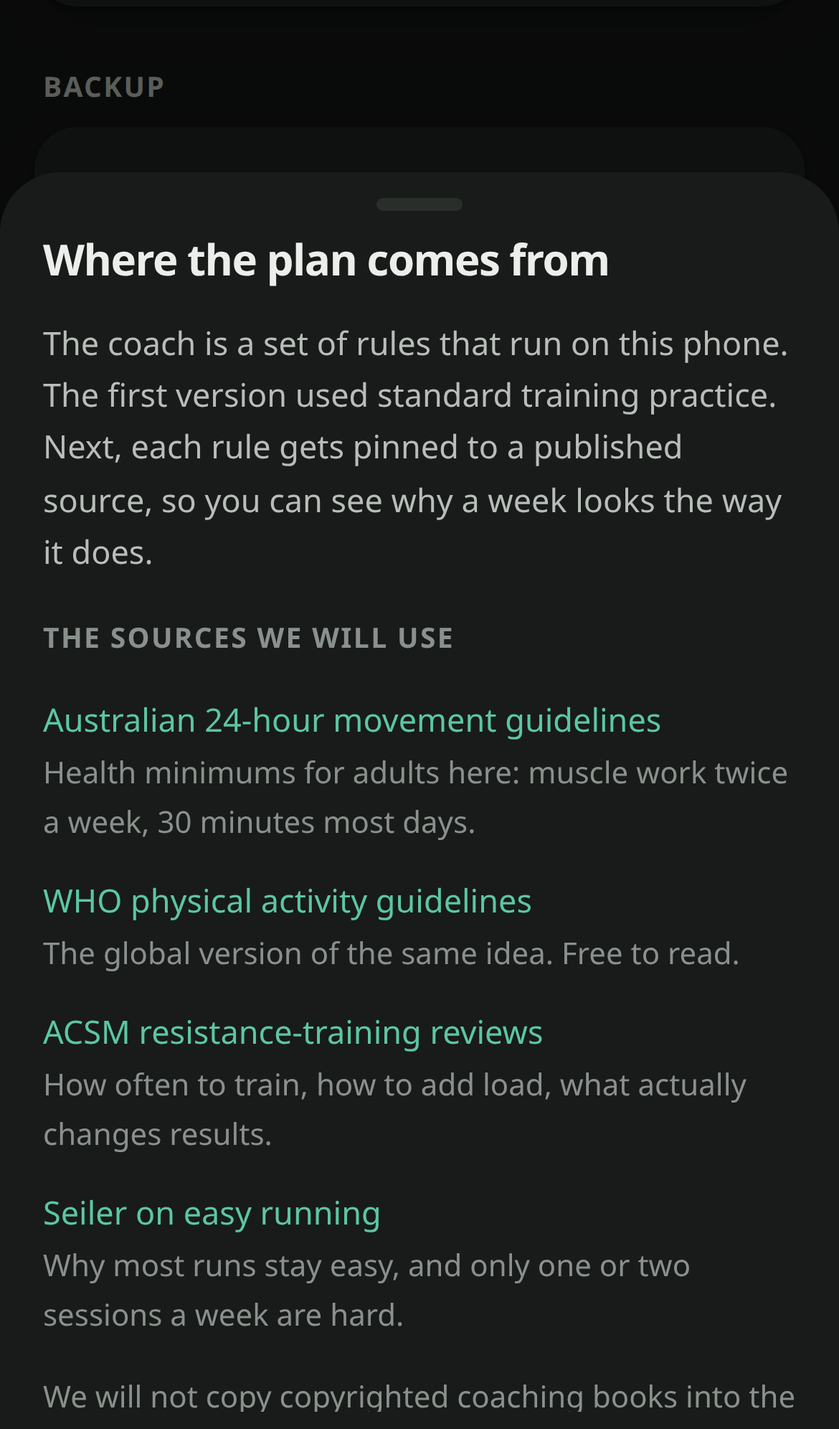
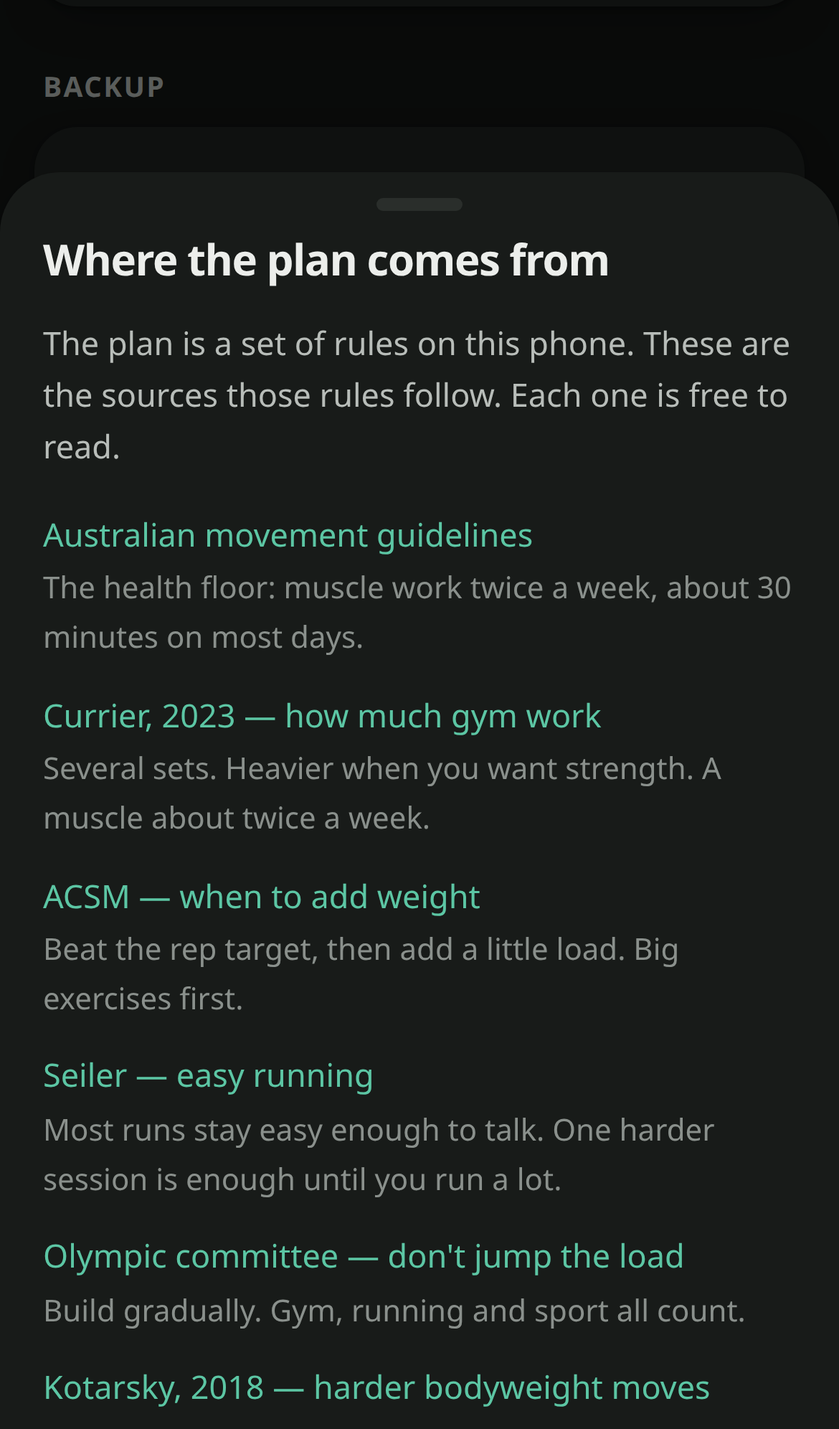
Choose the six open sources the coach should follow.
After a wider read of guidelines, consensus statements and reviews, the
rulebook narrows to: Australian movement guidelines, Currier 2023, the ACSM
progression stand, Seiler on easy running, the IOC load consensus, and
Kotarsky 2018 for harder bodyweight variations. Settings lists them. The
engine rules are not rewritten yet.

diff --git a/src/screens/Settings.tsx b/src/screens/Settings.tsx
@@ -370,38 +370,47 @@ export function Settings() {
       <Sheet open={sourcesOpen} onClose={() => setSourcesOpen(false)} title="Where the plan comes from">
         <div className="space-y-4 pb-2 text-[15px] leading-relaxed text-ink-2" data-testid="sources-sheet">
           <p>
-            The coach is a set of rules that run on this phone. The first version used standard training practice. Next, each rule gets pinned to a published source, so you can see why a week looks the way it does.
+            The plan is a set of rules on this phone. These are the sources those rules follow. Each one is free to read.
           </p>
-          <p className="text-[13px] font-semibold uppercase tracking-[0.06em] text-muted">The sources we will use</p>
           <ul className="space-y-3">
             <li>
               <a className="font-medium text-accent" href="https://www.health.gov.au/topics/physical-activity/24-hour-movement-guidelines-for-all-australians/recommendations-for-adults-18-to-64-years" target="_blank" rel="noreferrer">
-                Australian 24-hour movement guidelines
+                Australian movement guidelines
               </a>
-              <div className="mt-0.5 text-[14px] text-muted">Health minimums for adults here: muscle work twice a week, 30 minutes most days.</div>
+              <div className="mt-0.5 text-[14px] text-muted">The health floor: muscle work twice a week, about 30 minutes on most days.</div>
             </li>
             <li>
-              <a className="font-medium text-accent" href="https://www.who.int/publications/i/item/9789240015128" target="_blank" rel="noreferrer">
-                WHO physical activity guidelines
+              <a className="font-medium text-accent" href="https://bjsm.bmj.com/content/57/18/1211" target="_blank" rel="noreferrer">
+                Currier, 2023 — how much gym work
               </a>
-              <div className="mt-0.5 text-[14px] text-muted">The global version of the same idea. Free to read.</div>
+              <div className="mt-0.5 text-[14px] text-muted">Several sets. Heavier when you want strength. A muscle about twice a week.</div>
             </li>
             <li>
-              <a className="font-medium text-accent" href="https://pmc.ncbi.nlm.nih.gov/articles/PMC12965823/" target="_blank" rel="noreferrer">
-                ACSM resistance-training reviews
+              <a className="font-medium text-accent" href="https://doi.org/10.1249/mss.0b013e3181915670" target="_blank" rel="noreferrer">
+                ACSM — when to add weight
               </a>
-              <div className="mt-0.5 text-[14px] text-muted">How often to train, how to add load, what actually changes results.</div>
+              <div className="mt-0.5 text-[14px] text-muted">Beat the rep target, then add a little load. Big exercises first.</div>
             </li>
             <li>
               <a className="font-medium text-accent" href="https://sportscience.sportsci.org/2009/ss.htm" target="_blank" rel="noreferrer">
-                Seiler on easy running
+                Seiler — easy running
               </a>
-              <div className="mt-0.5 text-[14px] text-muted">Why most runs stay easy, and only one or two sessions a week are hard.</div>
+              <div className="mt-0.5 text-[14px] text-muted">Most runs stay easy enough to talk. One harder session is enough until you run a lot.</div>
+            </li>
+            <li>
+              <a className="font-medium text-accent" href="https://bjsm.bmj.com/content/50/17/1030" target="_blank" rel="noreferrer">
+                Olympic committee — don't jump the load
+              </a>
+              <div className="mt-0.5 text-[14px] text-muted">Build gradually. Gym, running and sport all count.</div>
+            </li>
+            <li>
+              <a className="font-medium text-accent" href="https://journals.lww.com/nsca-jscr/fulltext/2018/03000/effect_of_progressive_calisthenic_push_up_training.9.aspx" target="_blank" rel="noreferrer">
+                Kotarsky, 2018 — harder bodyweight moves
+              </a>
+              <div className="mt-0.5 text-[14px] text-muted">When the reps get easy, change the exercise, not just the speed.</div>
             </li>
           </ul>
-          <p className="text-[14px] text-muted">
-            We will not copy copyrighted coaching books into the app. If a book and a paper say the same thing, the paper is what we cite.
-          </p>
+          <p className="text-[14px] text-muted">Coaching books stay on the shelf. If a book and a paper say the same thing, the paper is what we use.</p>
         </div>
       </Sheet>
 

diff --git a/e2e/sheet.spec.ts b/e2e/sheet.spec.ts
@@ -67,7 +67,8 @@ test('sources sheet opens from settings and the handle closes it', async ({ page
   await page.reload();
   await page.getByTestId('training-sources').click();
   await expect(page.getByTestId('sources-sheet')).toBeVisible();
-  await expect(page.getByRole('link', { name: 'Australian 24-hour movement guidelines' })).toBeVisible();
+  await expect(page.getByRole('link', { name: 'Australian movement guidelines' })).toBeVisible();
+  await expect(page.getByRole('link', { name: /Currier, 2023/ })).toBeVisible();
   await page.getByTestId('sheet-handle').click();
   await expect(page.getByTestId('sources-sheet')).toHaveCount(0, { timeout: 2000 });
 });

diff --git a/docs/TRAINING_KNOWLEDGE.md b/docs/TRAINING_KNOWLEDGE.md
@@ -1,99 +1,59 @@
-# Where the training knowledge should come from
+# Where the training knowledge comes from
 
-Carlo asked: the first draft uses general training knowledge. Can we do deep research, find open books and papers, and build the coach on that instead?
+Carlo asked to stop using unnamed "general training knowledge" and build the coach on open science. He confirmed the **cited rulebook**: the coach stays a set of rules on the phone, and each rule points at a published source.
 
-Short answer: **yes, and the right way is a cited rulebook** — keep the same kind of coach (fast, offline, predictable), but pin each rule to a published source. Do not paste copyrighted books into the app, and do not ask an AI to invent a new plan from the internet every week.
+This note is the research pass (5 Nov 2026). It lists what is worth reading, then the short set that should actually drive the app.
 
-## What we have today
+Nothing here is copied out of a book. We link. We do not paste.
 
-The coach in `src/engine/` is a set of rules. They match common good practice:
+## What should go into the app
 
-- Add a little over time (progressive overload).
-- Most running stays easy; one or two sessions a week are quality work.
-- Hard days are spaced; sport counts as load.
-- Week 4 of a block is lighter.
-- Bodyweight moves lead; a few classic lifts cover legs.
+Six sources. They cover the decisions the coach actually makes, they are free to read, and they do not fight each other. Settings shows this same list.
 
-Those rules are not yet tied to named papers. That is the gap. The app already has a clean seam (`CoachEngine`) so we can change the rules without rebuilding the screens.
+| What it decides | Source |
+|---|---|
+| The health floor: muscle work on 2 or more days, about 30 minutes of harder activity on most days, less sitting | [Australian 24-hour movement guidelines](https://www.health.gov.au/topics/physical-activity/24-hour-movement-guidelines-for-all-australians/recommendations-for-adults-18-to-64-years) for adults 18–64. Athletic and strength goals sit above this floor, not instead of it. |
+| How a gym week is built: several sets, heavier work when the goal is strength, about twice a week per muscle for size and up to three for strength. Every sensible program beats doing nothing | [Currier and colleagues, 2023](https://bjsm.bmj.com/content/57/18/1211), *British Journal of Sports Medicine*. Open. 178 strength trials, 119 muscle-size trials. |
+| When to add load: if you can do 1–2 reps past the target, add roughly 2–10%. Beginners live around 8–12 reps. Big exercises before small ones | [ACSM position stand, 2009](https://doi.org/10.1249/mss.0b013e3181915670), *Progression Models in Resistance Training for Healthy Adults*. Read with the [2025 ACSM overview of reviews](https://pmc.ncbi.nlm.nih.gov/articles/PMC12965823/), which updates it: going to failure is not required, and the equipment (bar, dumbbell, bodyweight) is not what decides the result. |
+| Most running stays easy enough to talk. One harder session is enough until you run a lot | [Seiler, 2009](https://sportscience.sportsci.org/2009/ss.htm), free. "Easy" means the [talk test](https://pubmed.ncbi.nlm.nih.gov/15354048/) (Persinger, Foster and colleagues, 2004): full sentences means you are under the first threshold. |
+| Do not jump the weekly load. Tennis, skiing and gym all count. A lighter week is allowed; a sudden spike is the thing to avoid | [IOC consensus, 2016](https://bjsm.bmj.com/content/50/17/1030) (Soligard and colleagues), plus the [AIS note on reloading after a break](https://www.ausport.gov.au/ais/position_statements/training-load-in-relation-to-loading-and-unloading-phases-of-training). |
+| When bodyweight reps get easy, make the movement harder, not just slower | [Kotarsky and colleagues, 2018](https://journals.lww.com/nsca-jscr/fulltext/2018/03000/effect_of_progressive_calisthenic_push_up_training.9.aspx): progressive push-ups built strength about as well as bench press in a short trial. |
 
-## The options
+Two papers sit behind those six and should be cited in the engine, not as extra buttons:
 
-### 1. Cited rulebook (recommended)
+- [Lopez and colleagues, 2021](https://pmc.ncbi.nlm.nih.gov/articles/PMC8126497/) (open). Muscle size is similar across light and heavy loads if the sets are hard. Strength prefers heavier loads. That is why bodyweight-first is legitimate, and why squats and deadlifts stay barbell once a bodyweight squat is easy.
+- [Grgic and colleagues, 2017](https://pubmed.ncbi.nlm.nih.gov/28933024/) and [Singer and colleagues, 2024](https://pmc.ncbi.nlm.nih.gov/articles/PMC11349676/) (the second is open). Beginners can rest 1–2 minutes. Trained lifters get more strength from rests over 2 minutes on the main lifts. For muscle size, little is gained by resting past about 90 seconds.
 
-Keep the rule engine. For each rule, write down the source, in one plain sentence, and a link. Where the evidence is thin or mixed, say so instead of dressing a habit up as science.
+WHO's [2020 guidelines](https://www.who.int/publications/i/item/9789240015128) say the same health floor as the Australian ones (150–300 minutes of moderate activity a week, or 75–150 vigorous, plus muscle work twice a week). We follow the Australian page in the app. WHO is the backup citation, not a second rule.
 
-Then, one rule at a time, check the code against the paper. If they disagree, change the code (or keep the rule and write why).
+## What we read and will not encode
 
-**Why this fits the app:** it stays offline, instant, and testable. You can open a workout and later tap “why this looks like that.” A Claude coach, if we add one, can read the same notes instead of guessing.
+These are real, and they are the wrong thing to hard-code.
 
-### 2. Drop open books in and let an AI read them live
+- **The exact "add 10% running each week" rule.** [Buist and colleagues, 2008](https://pubmed.ncbi.nlm.nih.gov/17940147/) randomised novice runners. A graded plan and a faster plan had the same injury rate, about 21%. A later review ([PMC6253751](https://pmc.ncbi.nlm.nih.gov/articles/PMC6253751/)) found no safe weekly percentage. The IOC sentence we *do* encode is the honest one: avoid a sudden jump. The app can keep a gentle cap so a week cannot double. The screen must not call 10% an injury law.
+- **A fixed deload as a way to grow more.** Coaches often lighten a week every 4–6 weeks ([Bell and colleagues, 2022](https://www.frontiersin.org/journals/sports-and-active-living/articles/10.3389/fspor.2022.1073223/full), open). A trial that *stopped* training for a week in the middle of nine weeks did not grow more muscle, and grew less strength ([Coleman and colleagues, 2024](https://doi.org/10.7717/peerj.16777), open). So week 4 stays a lighter week (fewer sets, a bit less load), not a week off, and we do not claim it builds extra muscle.
+- **Polarised training as a law for new runners.** [Silva and colleagues, 2024](https://pmc.ncbi.nlm.nih.gov/articles/PMC11329428/) (open) found a small fitness edge for an 80/20 split, mostly in already-trained athletes and in short studies. Race-style performance was similar to other mixes. A 2025 review of individual results suggested recreational athletes may do just as well with a pyramidal mix (mostly easy, some steady, a little hard). Our default — mostly easy, one quality session until you run four times a week — matches that caution.
+- **Fancy set-counting.** A 2024 dose-response analysis (Pelland and colleagues, later indexed on PubMed) says more weekly sets mean more growth, with diminishing returns, and that a set which only brushes a muscle should count as half. Useful to know. Too fussy to code. Currier already says "use several sets."
+- **Periodisation brands** (linear vs daily undulating, Bompa's books). When the total work is the same, [Moesgaard and colleagues, 2022](https://pubmed.ncbi.nlm.nih.gov/35044672/) found a modest strength edge for planned variation, and no edge for muscle size. Untrained people did not benefit from the complicated version. A simple month that builds and then lightens is enough.
+- **ESSA position statements.** Exercise & Sports Science Australia is the local professional body, and their statements are good. The ones on the public list are for diabetes, bone health, obesity and similar. They are not the default plan for a healthy student. If a condition shows up later, we pull the matching statement in.
+- **Nutrition stands** (ISSN protein, 1.4–2.0 g per kg). Solid, open, and out of scope. The app does not coach food.
+- **Copyrighted coaching books** — *Starting Strength*, *Practical Programming*, *Overcoming Gravity*, Bompa, the NSCA textbook, Renaissance Periodization, Stronger by Science programs. Fine to read. Not ours to copy. If a book and a paper agree, the paper is what we cite.
+- **Open physiology textbooks**, including MacIntosh's [*Open Textbook of Exercise Physiology*](https://pressbooks.openeducationalberta.ca/otep/) (CC BY-NC). They explain bodies. They do not write the week.
+- **The acute:chronic workload ratio** (the "0.8 to 1.3" number in the IOC paper). It came from a few team sports and has not held up as a personal injury predictor. We keep the plain warning, not the ratio.
+- **A magic push/pull/squat/hinge ratio.** ACSM says cover the big movement patterns and do the hard compound lifts first. The templates in the app are how we do that. No paper says the counts must match.
 
-Possible later, not as the base. It needs the network, answers can drift, and it fights the “works on the phone with no account” design. Use this only as an extra explainer on top of option 1.
+## What changes in the rules, once we encode this
 
-### 3. Build on famous coaching books
+Not done yet. One family at a time, with you able to see the diff:
 
-Books such as *Starting Strength*, *Practical Programming*, *Overcoming Gravity*, Bompa’s periodization texts, or Helms’s hypertrophy pyramid are useful to **read**. They are not free to copy. We must not put their text, tables, or programs in the repo. If a book and a paper say the same thing, we cite the paper.
-
-The one open textbook worth keeping on the shelf is MacIntosh’s *[Open Textbook of Exercise Physiology](https://pressbooks.openeducationalberta.ca/otep/)* (CC BY-NC). It is physiology, not a training program, so it backs *why* a rule works rather than *what* the week contains.
-
-### 4. Re-research the literature every time you open the app
-
-Slow, expensive, inconsistent, and useless on a plane. A one-off literature pass (this document) is the research step. Encoding it is the product step.
-
-## The source library (all free to read)
-
-We only pin rules to things we can link. Order: official guidelines first, then consensus reviews, then specific trials.
-
-### Health minimums (the floor)
-
-- **Australian 24-hour movement guidelines** (Department of Health, 2026 update). Adults: 30 minutes most days, muscle-strengthening on 2+ days, some balance/coordination work, less sitting. [Guidelines](https://www.health.gov.au/topics/physical-activity/24-hour-movement-guidelines-for-all-australians/recommendations-for-adults-18-to-64-years).
-- **WHO 2020 guidelines on physical activity and sedentary behaviour.** Same idea globally: 150–300 minutes moderate aerobic work a week (or 75–150 vigorous), plus muscle strengthening on 2+ days. CC BY-NC-SA. [WHO page](https://www.who.int/publications/i/item/9789240015128).
-
-These set the floor for a “health” goal. Your athletic/strength goals sit *on top* of this, not instead of it.
-
-### Gym and bodyweight
-
-- **ACSM 2009 position stand**, *Progression Models in Resistance Training for Healthy Adults* (Ratamess et al.). The classic “how to add load” paper: novices 8–12 reps, 2–3 days/week; when you can do 1–2 reps over the target, add about 2–10% load; sequence big moves before small ones. [DOI](https://doi.org/10.1249/mss.0b013e3181915670).
-- **ACSM 2025 overview of reviews**, *Resistance Training Prescription for Muscle Function, Hypertrophy, and Physical Performance in Healthy Adults*. Updates the 2009 stand. Strength likes heavier loads and 2–3 sets, 2+ sessions/week; size likes higher weekly set counts; training to failure is not required. Open on PMC: [PMC12965823](https://pmc.ncbi.nlm.nih.gov/articles/PMC12965823/).
-- **ACSM 2011 position stand**, *Quantity and Quality of Exercise…* (Garber et al.). Cardio + strength + neuromotor (balance/agility) + some mobility. [DOI](https://doi.org/10.1249/mss.0b013e318213fefb).
-- **Schoenfeld, Ogborn & Krieger 2016**, volume and hypertrophy: more weekly sets → more growth, with diminishing returns. [PubMed](https://pubmed.ncbi.nlm.nih.gov/27433992/).
-- **Schoenfeld, Ogborn & Krieger 2016**, frequency: train a muscle at least twice a week if you care about size. [PubMed](https://pubmed.ncbi.nlm.nih.gov/27102172/). A 2019 follow-up found that once weekly volume is equated, frequency itself matters less — so full-body three times a week and upper/lower both fine. [PubMed](https://pubmed.ncbi.nlm.nih.gov/30558493/).
-- **Grgic, Schoenfeld et al. 2017**, rest between sets: short rests still build strength; trained people gain more with 2+ minutes on the main lifts. [PubMed](https://pubmed.ncbi.nlm.nih.gov/28933024/).
-- **Singer et al. 2024**, rest and size: a small extra benefit past 60 seconds, little extra past 90. Open: [PMC11349676](https://pmc.ncbi.nlm.nih.gov/articles/PMC11349676/).
-- **Kotarsky et al. 2018**, progressive push-up variations vs bench press: harder bodyweight versions *are* a real progression, not just a workaround. [JSCR](https://journals.lww.com/nsca-jscr/fulltext/2018/03000/effect_of_progressive_calisthenic_push_up_training.9.aspx).
-- **Grgic et al. 2022**, training to failure vs stopping a little short: not required for strength or size. Open: [PMC9068575](https://pmc.ncbi.nlm.nih.gov/articles/PMC9068575/).
-
-There is no good open textbook that *is* a calisthenics program. Bodyweight work uses the same physics as any other resistance training (overload, enough hard sets, progress the move when reps get easy). That is why we keep barbell squats/deadlifts for legs: once a bodyweight squat is easy, it stops being a strength stimulus. The 2025 ACSM overview says the same in other words — load and volume matter more than the toy you hold.
-
-### Running
-
-- **Seiler & Kjerland 2006** and **Seiler 2009**, *Intervals, Thresholds, and Long Slow Distance*. About 80% of endurance sessions stay easy (you can talk); the rest are quality. Free: [sportsci.org](https://sportscience.sportsci.org/2009/ss.htm).
-- **Talk test** as an effort guide is the honest stand-in until we have heart-rate or pace data. It maps onto Seiler’s zone 1 reasonably well.
-
-### The 10% running rule (be honest)
-
-The app currently caps weekly run minutes at about +10%. That is a common coaching habit. It is **not** a law.
-
-Buist et al. 2008 (GRONORUN) randomised novice runners to a 10%-ish build vs a faster 8-week plan. Injury rates were the same (~21%). A later review (Nielsen / PMC6253751) said there is no clear safe weekly jump. So: keep a gentle cap so weeks do not explode, but do not tell you it is proven to prevent injury. Sudden spikes still look unwise; the exact 10% number is a convention.
-
-## How we should fold this in (next sessions)
-
-1. **Do not rewrite the engine in one go.** Change one family of rules at a time (first: gym progression and weekly set counts; then running intensity mix; then rest times; then deload).
-2. **Each rule gets a source id** in the engine, plus a one-line reason the screens can show.
-3. **Where we already match**, just cite. Double progression is the ACSM “add 2–10% when you overshoot the RM” idea in another costume. 80/20 running is Seiler. Muscle-strengthening twice a week is WHO + Australian guidelines.
-4. **Where we might change**, check with you first:
-   - Rest on main lifts may be a bit short for strength (papers lean 2+ minutes once you are trained).
-   - Bodyweight progressions should move to a harder variation when reps top out, not only “slow the lowering.”
-   - The 10% run cap stays as a comfort brake, with honest copy.
-5. **A “Why this?” line** on the workout and week, in the same quiet tone as the rest of the app. Not a bibliography on every card.
-
-## What we will not do
-
-- Copy or reconstruct copyrighted books.
-- Claim the first draft was already a literature review. It was not.
-- Swap the offline coach for a live chatbot.
-- Pretend there is a perfect paper for every choice. Some calls (which accessory, which run on Tuesday) are logistics, not science.
+1. **Gym dose.** Keep multiple sets. Point weekly frequency and "main lifts before accessories" at Currier 2023 and ACSM 2009. Muscle groups land about twice a week when the calendar allows.
+2. **Adding load.** Keep double progression. Cite ACSM's 2–10% step. Stop implying you must grind to failure.
+3. **Bodyweight.** When reps hit the top of the range, offer a harder variation (Kotarsky), not only "slow the lowering." Keep barbell squats and deadlifts as the leg strength lifts (Lopez).
+4. **Rest.** Beginners stay near 90 seconds. Past beginner, main strength lifts rest closer to 2 minutes.
+5. **Running.** Keep mostly easy, talk-test cues, one quality session for beginners. Soften the 10% copy. A second quality session only when there is enough easy running around it.
+6. **Week 4.** Keep it lighter, and say it is there to avoid a spike, not because a rest week grows more muscle.
+7. **Each rule gets a source id** the screen can show in one sentence. No bibliography on the workout card.
 
 ## Status
 
-2026-11-04: sources chosen and written up. The engine is **not** cited yet. Settings now has a short “Where the plan comes from” note so this is visible in the app. Encoding the citations into the rules is the next training-engine session.
+2026-11-05: research done, shortlist chosen, Settings lists it. The engine rules are still the original ones. Encoding is the next training-engine session.

diff --git a/CLAUDE.md b/CLAUDE.md
@@ -24,14 +24,14 @@ Carlo Müller's personal fitness PWA. **Read `SPEC.md` first**: it is the source
 - Exercise library: 89 exercises, each with a line-art animation on one shared stick-figure rig (`src/animations/rig.ts`).
 - Training style defaults to **bodyweight first** (Carlo's wish: calisthenics + a few classic lifts, no machines); changeable in Settings.
 - Bottom sheets: grabber bar now drags (or taps) to dismiss.
-- Training knowledge: agreed path is a **cited rulebook** (open papers/guidelines, not live AI and not copyrighted books in the repo). Sources and the fold-in plan are in `docs/TRAINING_KNOWLEDGE.md`. Engine rules are not cited yet. Settings has a "Where the plan comes from" note.
+- Training knowledge: cited rulebook confirmed. The six sources that should drive the coach are listed in Settings and in `docs/TRAINING_KNOWLEDGE.md` (Australian guidelines, Currier 2023, ACSM 2009 progression, Seiler, IOC load consensus, Kotarsky 2018). Engine rules are not rewritten to cite them yet.
 - Not tested on a real iPhone yet; see `docs/KNOWN_ISSUES.md`.
 
 ## 4. Open questions for Carlo (later)
 - Whether to add cloud sync.
 - Whether to add a Claude AI coach on top of the rule engine.
 - Which exercises/sports to add after using v1.
-- Confirm the cited-rulebook path, then encode sources into the engine one family of rules at a time (gym progression, running mix, rest times, bodyweight variations).
+- Encode the six chosen sources into the engine, one family of rules at a time (gym dose, adding load, bodyweight variations, rest, running mix, the lighter week).
 
 ## 5. Session log
 - 2026-11-04: Spec written from Carlo's brief; decisions agreed (PWA, local storage, rule engine, custom animations). Private repo created; cloud build session launched.
@@ -39,3 +39,4 @@ Carlo Müller's personal fitness PWA. **Read `SPEC.md` first**: it is the source
 - 2026-11-04: Carlo: "not a fan of machines, mainly bodyweight/calisthenics and a few simple classic exercises" → added training style (bodyweight first by default), 16 calisthenics moves, Progress tracks bodyweight lifts by reps.
 - 2026-11-04: Carlo chose GitHub Pages (like his other app). Added `BASE_PATH` support in `vite.config.ts` and a deploy workflow that runs the unit tests, builds and publishes on every push to `main`.
 - 2026-11-04: Sheet grabber bar now dismisses (drag / flick / tap). Training knowledge: research into open sources; decision is a cited rulebook (`docs/TRAINING_KNOWLEDGE.md`); Settings explains it. Engine not rewritten yet.
+- 2026-11-05: Sheet-grabber PR merged. Deeper source pass: six sources chosen to drive the coach (Australian guidelines, Currier 2023, ACSM 2009, Seiler, IOC 2016, Kotarsky 2018). Written up in `docs/TRAINING_KNOWLEDGE.md` and shown in Settings. Engine still not rewritten.

diff --git a/docs/DECISIONS.md b/docs/DECISIONS.md
@@ -48,6 +48,7 @@ Key choices made while building v1, and why. Newest at the bottom of each sectio
 
 ## Training knowledge
 - **Cited rulebook, not a live AI and not copyrighted books in the repo.** Carlo asked to move off "general training knowledge" onto science. The coach stays a deterministic rule engine (offline, testable). Each rule will be pinned to an open paper or guideline. Settings has a short "Where the plan comes from" note; the full list and the "how we fold this in" plan live in `docs/TRAINING_KNOWLEDGE.md`.
-- **Sources we will actually use** (all free to read): Australian 24-hour movement guidelines, WHO 2020 physical activity guidelines, ACSM resistance-training position stands (2009 + 2025 overview of reviews), Seiler on easy/hard running, Schoenfeld/Grgic volume-frequency-rest reviews, Kotarsky on progressive calisthenic push-ups. Open Textbook of Exercise Physiology (MacIntosh, CC BY-NC) for the physiology background.
-- **We will not** copy Starting Strength, Overcoming Gravity, Bompa, etc. into the app. Ideas can inform a rule only when a citable paper says the same thing.
-- **The engine is not cited yet.** This decision is the map. Encoding citations and adjusting rules (rest times, bodyweight progressions, honest copy on the 10% run cap) is a later engine session, one family of rules at a time.
+- **The six sources that drive the coach** (chosen 2026-11-05, after a wider read): Australian 24-hour movement guidelines; Currier et al. 2023 (BJSM, open) for gym dose; ACSM 2009 progression stand (with the 2025 overview of reviews) for adding load; Seiler 2009 plus the talk test for easy running; the 2016 IOC load consensus plus the AIS reload note for spikes and mixed sport; Kotarsky 2018 for harder bodyweight variations. Lopez 2021 (load vs size) and Grgic/Singer (rest) are cited in the engine notes, not as extra buttons. Full list, and what we deliberately leave out, is `docs/TRAINING_KNOWLEDGE.md`.
+- **We will not** copy Starting Strength, Overcoming Gravity, Bompa, the NSCA textbook, or paid programs into the app. ISSN nutrition stands and ESSA clinical statements stay off the default plan (nutrition is out of scope; ESSA's public statements are for medical conditions).
+- **We will not pretend thin evidence is a law.** The 10% weekly run cap is a gentle brake (Buist 2008 found no injury benefit). Week 4 is a lighter week so load does not only rise, not a proven muscle-builder (Coleman 2024). 80/20 running is a safe default, strongest in trained athletes (Silva 2024).
+- **The engine is not cited yet.** Settings lists the six. Encoding them into `src/engine/`, one family of rules at a time, is the next engine session.

diff --git a/README.md b/README.md
@@ -15,7 +15,7 @@ Everything is stored on the phone itself. There's no account and no server. A ba
 - **Progress**: a calendar of done vs planned sessions, a streak, lift history with estimated 1-rep max, running distance and pace, and weekly sets per muscle group.
 - **Settings**: profile, units, theme (system / light / dark), backup export/import and reset.
 
-The training rules (progressive overload, 80/20 running, recovery spacing, deload weeks) live in `src/engine/`. That code is plain logic with no screen code in it, and it has unit tests. `docs/DECISIONS.md` explains the choices. The next step for those rules is to pin each one to an open paper or guideline; see `docs/TRAINING_KNOWLEDGE.md`.
+The training rules (progressive overload, 80/20 running, recovery spacing, deload weeks) live in `src/engine/`. That code is plain logic with no screen code in it, and it has unit tests. `docs/DECISIONS.md` explains the choices. The next step is to pin those rules to six open sources (Australian guidelines, a 2023 gym-dose review, the ACSM progression stand, Seiler on easy running, the Olympic load consensus, and a push-up progression study). The full list is `docs/TRAINING_KNOWLEDGE.md`.
 
 ## Run it on your computer
 

diff --git a/docs/KNOWN_ISSUES.md b/docs/KNOWN_ISSUES.md
@@ -12,7 +12,7 @@ What isn't done, isn't tested, or is a known compromise.
 - The offline service worker has been built but not checked in airplane mode on a device. It needs an `https://` host to work at all.
 
 ## Training engine
-- **Rules are not yet pinned to papers.** `docs/TRAINING_KNOWLEDGE.md` lists the open sources we will use. Until that work is done, the coach is still "standard training practice," not a cited review. Settings is honest about that.
+- **Rules are not yet pinned to papers.** The six sources are chosen (`docs/TRAINING_KNOWLEDGE.md`) and listed in Settings. Until the engine cites them, the coach is still the original rule set.
 - **The +10% weekly run cap is a coaching habit, not a proven injury law.** Buist 2008 found no injury benefit vs a faster build. We keep a gentle cap so weeks don't explode; we should not claim it prevents injuries.
 - **Pace guidance is effort-based** (talk test) until some easy runs with distance are logged. There are no heart-rate zones.
 - **No automatic weight for a lift's first session.** The app says "pick a weight you could lift 2–3 more reps with".
